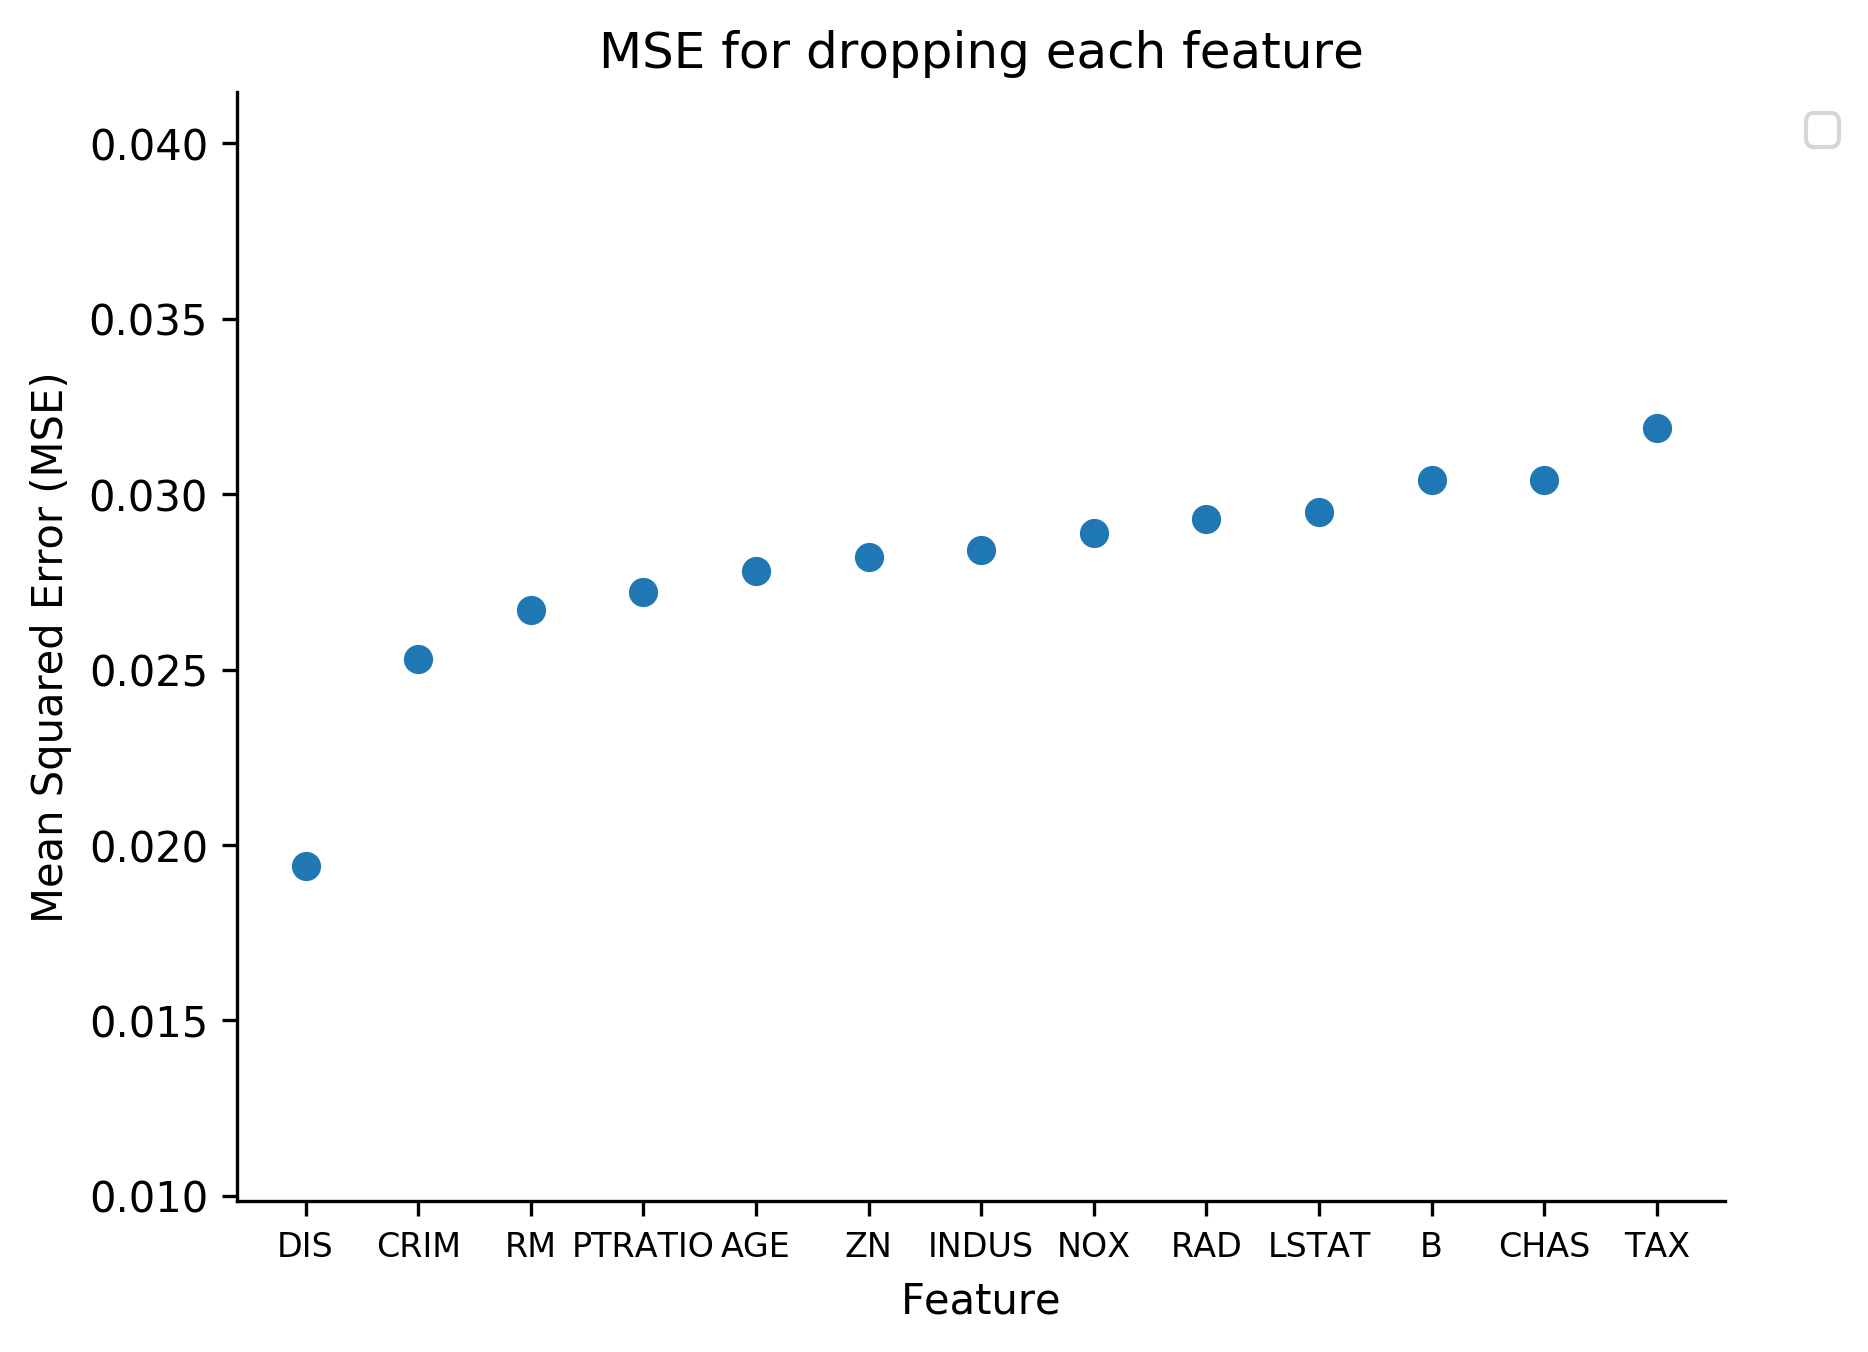
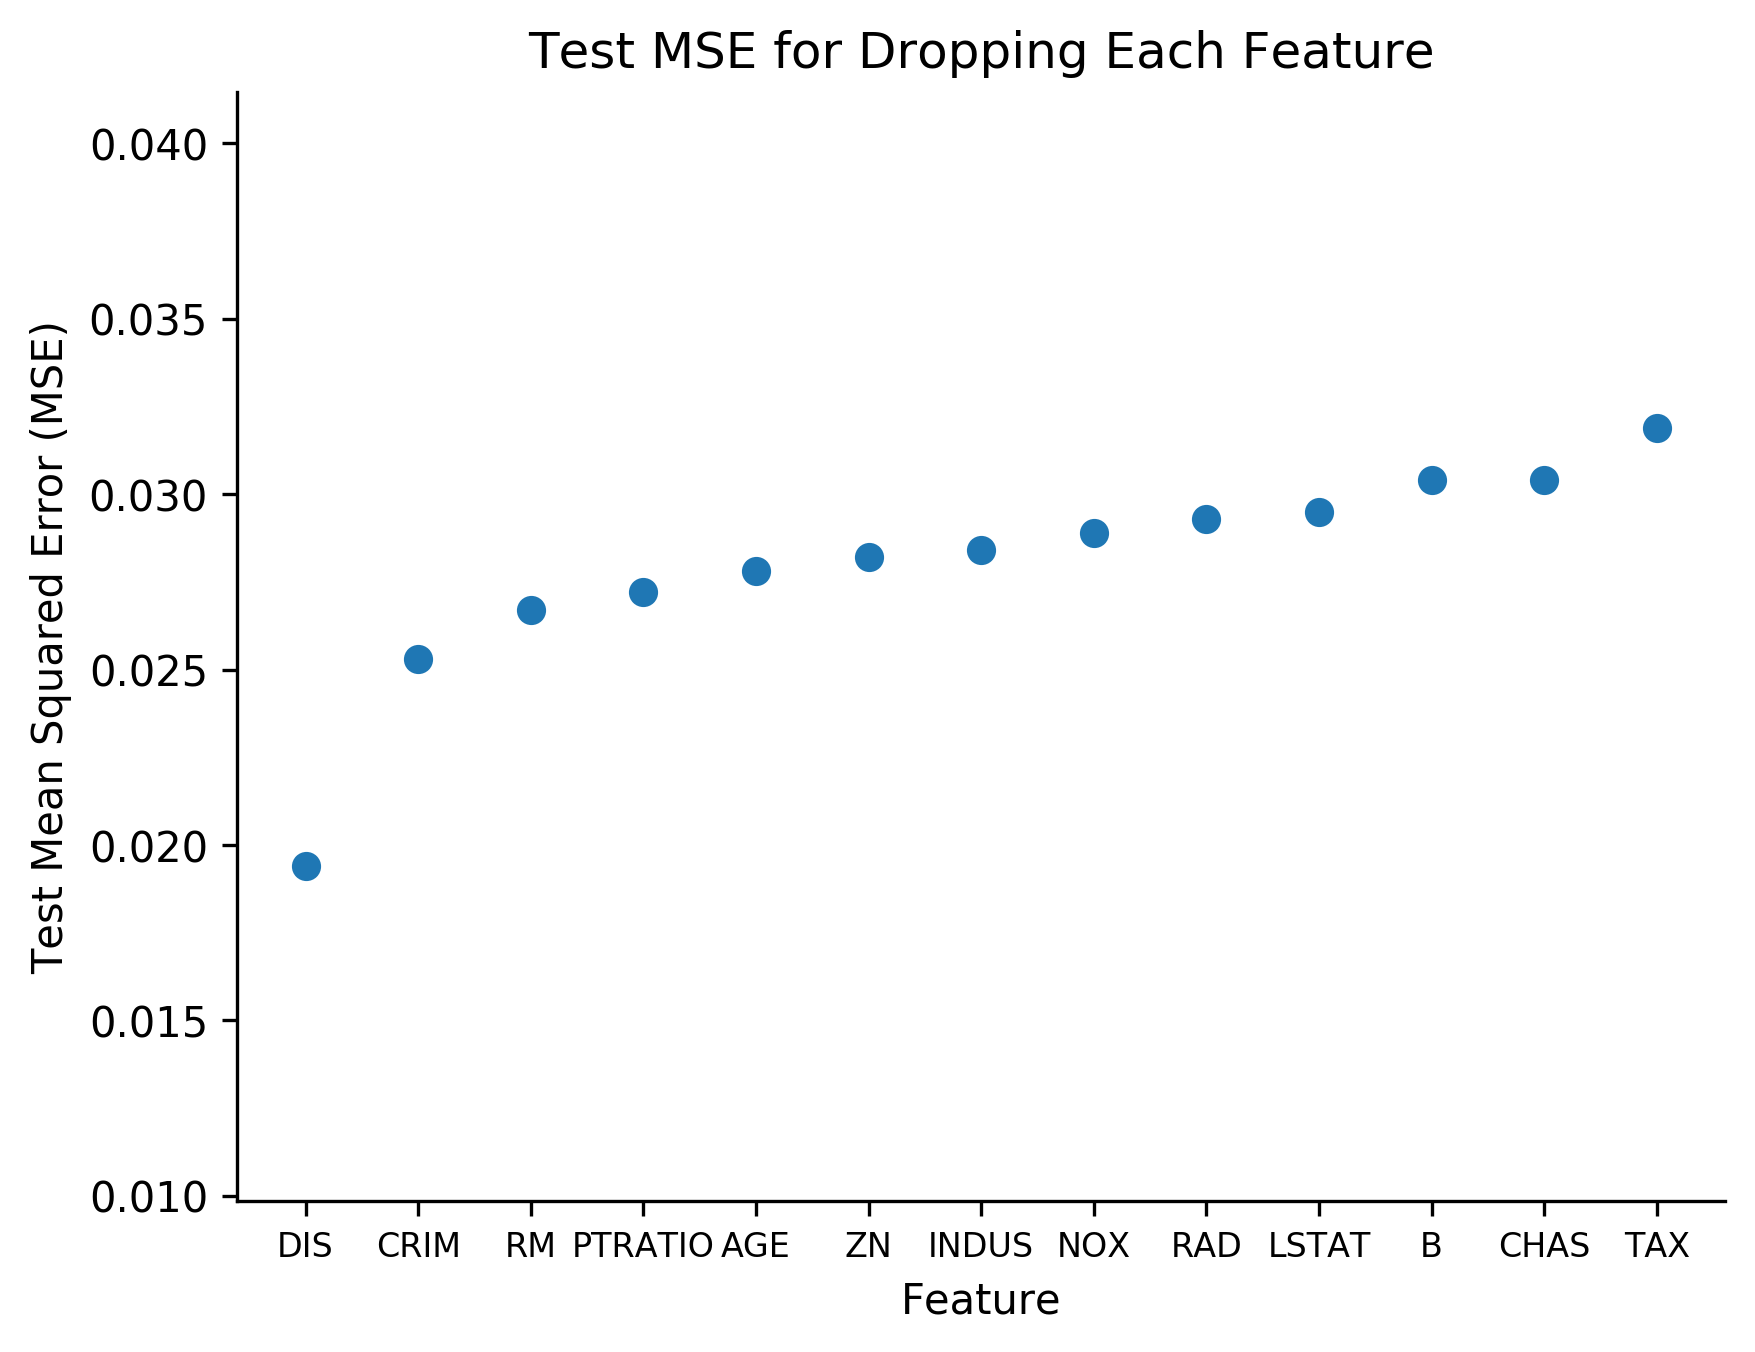
target variable

diff --git a/Project/plotting_hist.py b/Project/plotting_hist.py
@@ -206,11 +206,11 @@ plt.gca().spines['top'].set_visible(False)
 plt.gca().spines['right'].set_visible(False)
 
 plt.xlabel('Feature')
-plt.ylabel('Mean Squared Error (MSE)')
-title="MSE for dropping each feature"
+plt.ylabel('Test Mean Squared Error (MSE)')
+title="Test MSE for Dropping Each Feature"
 plt.title(title)
-plt.legend(loc='upper left', bbox_to_anchor=(1.04,1))
-name='hist/feature_importance.pgf'
+#plt.legend(loc='upper left', bbox_to_anchor=(1.04,1))
+name='hist/feature_importance.png'
 plt.savefig(name, dpi=300, bbox_inches="tight")
 plt.close()
 
